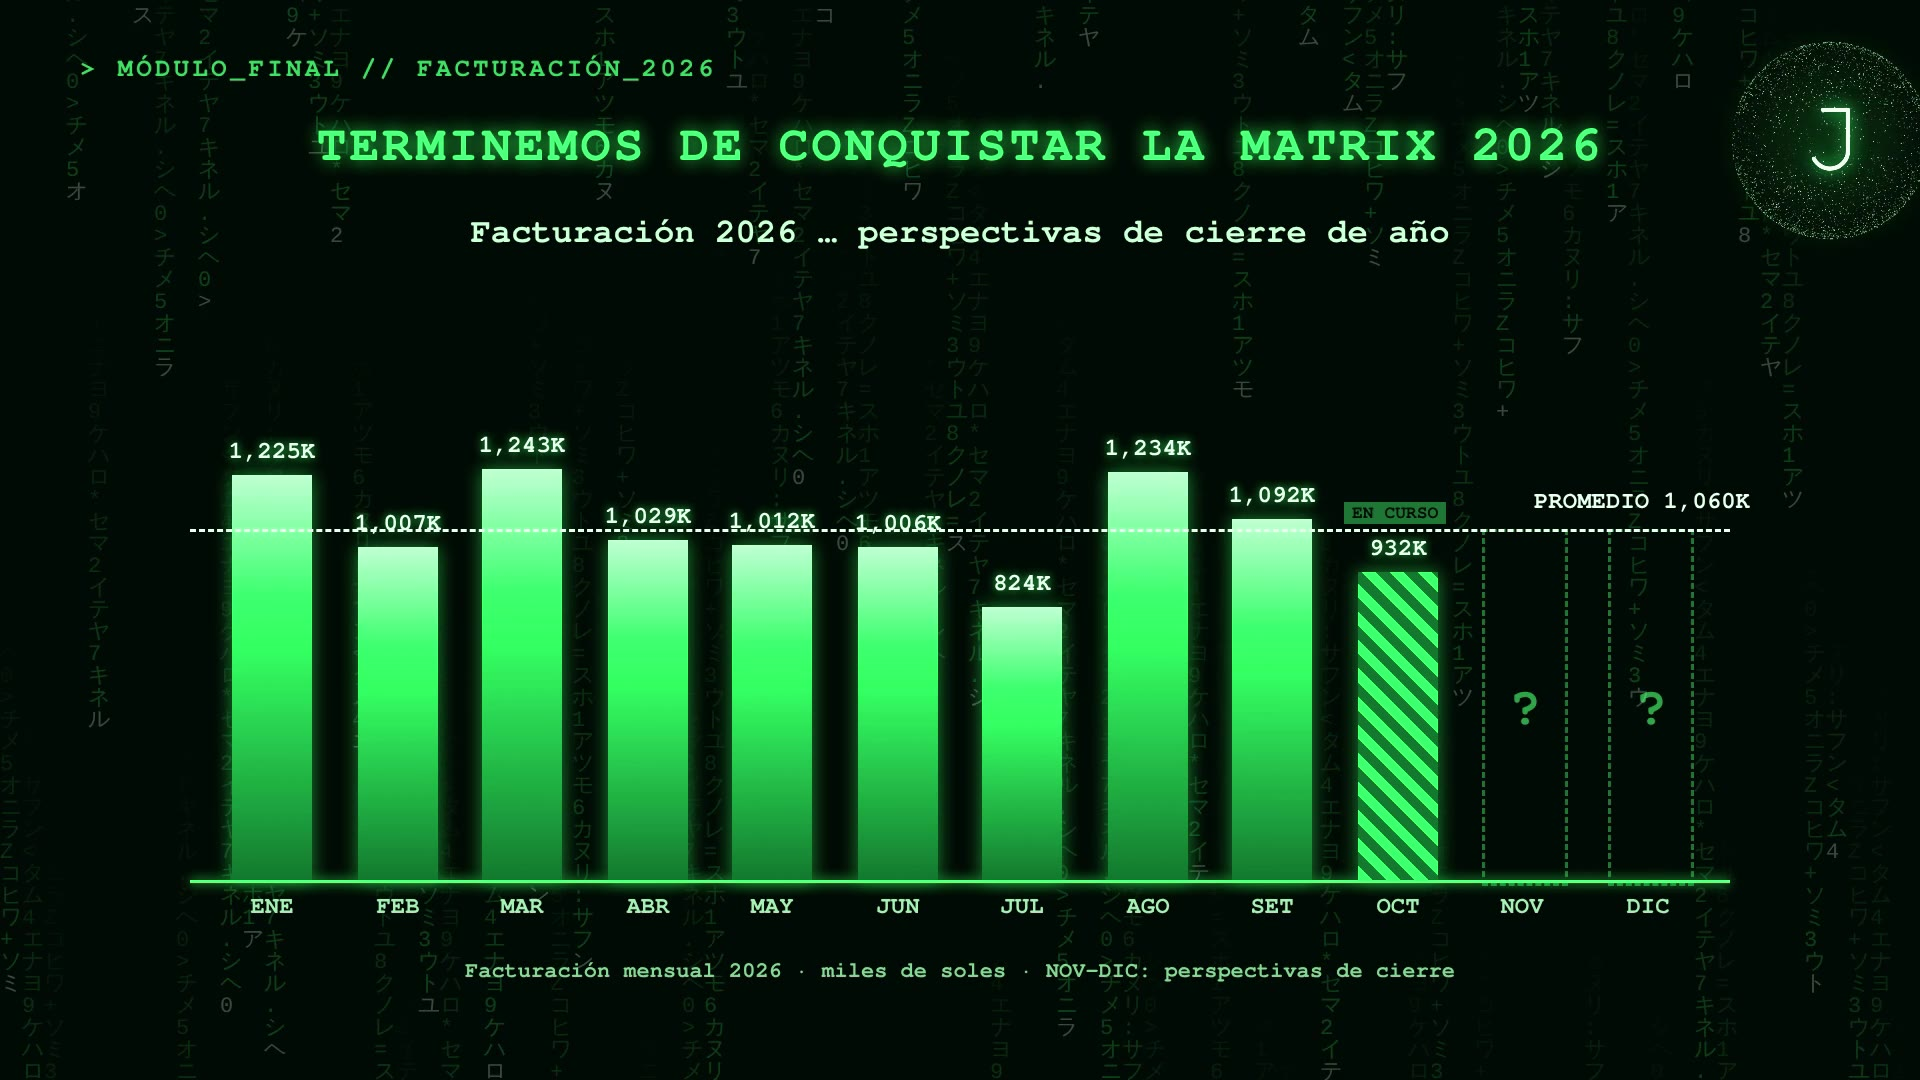
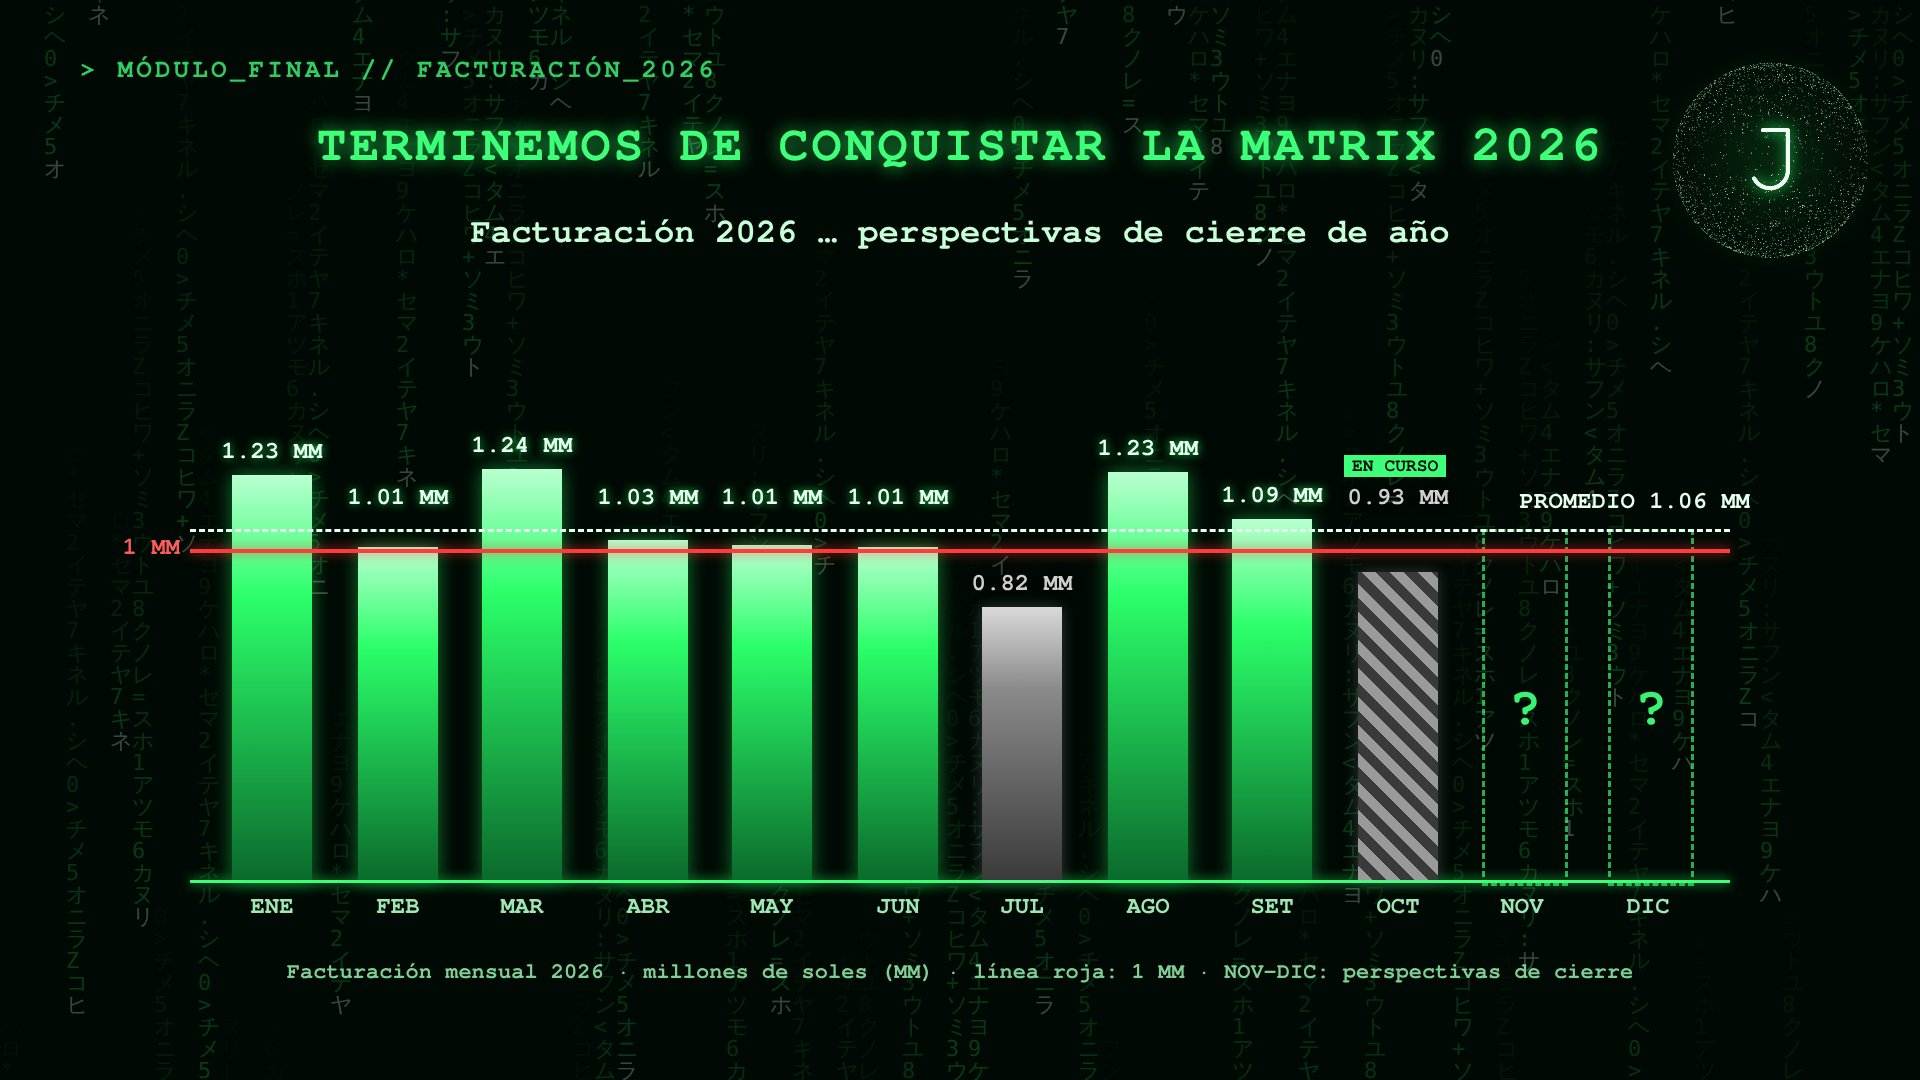
Matrix cierre: línea roja del millón, meses bajo 1 MM en gris, cifras en MM, promedio 1.06 MM y despedida "Cambio y fuera"
Claude-Session: https://claude.ai/code/session_01TNESLuQNUwZZ73yDMFRmWn

diff --git a/videos/matrix-2026/compositions/m6-final.html b/videos/matrix-2026/compositions/m6-final.html
@@ -30,6 +30,13 @@
   #eje{left:190px;width:1540px;top:880px;height:3px;background:#3dff7a;box-shadow:0 0 12px #2bff6a}
   .bar{background:linear-gradient(#b9ffd0,#2bff6a 30%,#0b6a2c);box-shadow:0 0 18px rgba(43,255,106,.45)}
   .bar[data-curso]{background:repeating-linear-gradient(45deg,#2bff6a 0 10px,#0b6a2c 10px 20px)}
+  /* meses que no llegan al millón: en gris */
+  .bar.gris{background:linear-gradient(#d9d9d9,#8a8a8a 30%,#3a3a3a);box-shadow:0 0 14px rgba(200,200,200,.25)}
+  .bar.gris[data-curso]{background:repeating-linear-gradient(45deg,#9a9a9a 0 10px,#3a3a3a 10px 20px)}
+  .val.gris{color:#cfcfcf;text-shadow:0 0 8px rgba(0,0,0,.9)}
+  #linmm{left:190px;width:1540px;height:0;border-top:4px solid #ff3b3b;box-shadow:0 0 12px rgba(255,59,59,.8);opacity:0}
+  #linmmt{left:60px;width:120px;text-align:right;font-family:"Maquina",monospace;font-size:24px;color:#ff5b5b;opacity:0}
+  #adios{inset:0;display:flex;align-items:center;justify-content:center;text-align:center;padding:0 160px;background:rgba(2,10,4,.88);font-family:"Maquina",monospace;font-size:64px;line-height:1.4;color:#e6ffee;text-shadow:0 0 18px rgba(43,255,106,.9),0 0 4px #000;opacity:0}
   .val{text-align:center;font-family:"Maquina",monospace;font-size:24px;color:#e6ffee;text-shadow:0 0 10px rgba(43,255,106,.8)}
   .mes{text-align:center;font-family:"Maquina",monospace;font-size:24px;color:#9fe8b4}
   .proy{border:3px dashed rgba(61,255,122,.7);display:flex;align-items:center;justify-content:center;font-family:"Maquina",monospace;font-size:54px;color:#3dff7a;opacity:0}
@@ -47,11 +54,14 @@
   <div id="h" class="abs"></div>
   <div id="sub2" class="abs"></div>
   <div id="eje" class="abs"></div>
-<div class="bar abs" data-v="1225" data-t="2.0" style="left:232px;width:80px;top:880px;height:0"></div><div class="val abs" data-v="1225" data-t="2.0" style="left:212px;width:120px"></div><div class="mes abs" style="left:212px;width:120px;top:894px">ENE</div><div class="bar abs" data-v="1007" data-t="2.18" style="left:358px;width:80px;top:880px;height:0"></div><div class="val abs" data-v="1007" data-t="2.18" style="left:338px;width:120px"></div><div class="mes abs" style="left:338px;width:120px;top:894px">FEB</div><div class="bar abs" data-v="1243" data-t="2.36" style="left:482px;width:80px;top:880px;height:0"></div><div class="val abs" data-v="1243" data-t="2.36" style="left:462px;width:120px"></div><div class="mes abs" style="left:462px;width:120px;top:894px">MAR</div><div class="bar abs" data-v="1029" data-t="2.54" style="left:608px;width:80px;top:880px;height:0"></div><div class="val abs" data-v="1029" data-t="2.54" style="left:588px;width:120px"></div><div class="mes abs" style="left:588px;width:120px;top:894px">ABR</div><div class="bar abs" data-v="1012" data-t="2.7199999999999998" style="left:732px;width:80px;top:880px;height:0"></div><div class="val abs" data-v="1012" data-t="2.7199999999999998" style="left:712px;width:120px"></div><div class="mes abs" style="left:712px;width:120px;top:894px">MAY</div><div class="bar abs" data-v="1006" data-t="2.9" style="left:858px;width:80px;top:880px;height:0"></div><div class="val abs" data-v="1006" data-t="2.9" style="left:838px;width:120px"></div><div class="mes abs" style="left:838px;width:120px;top:894px">JUN</div><div class="bar abs" data-v="824" data-t="3.08" style="left:982px;width:80px;top:880px;height:0"></div><div class="val abs" data-v="824" data-t="3.08" style="left:962px;width:120px"></div><div class="mes abs" style="left:962px;width:120px;top:894px">JUL</div><div class="bar abs" data-v="1234" data-t="3.26" style="left:1108px;width:80px;top:880px;height:0"></div><div class="val abs" data-v="1234" data-t="3.26" style="left:1088px;width:120px"></div><div class="mes abs" style="left:1088px;width:120px;top:894px">AGO</div><div class="bar abs" data-v="1092" data-t="3.44" style="left:1232px;width:80px;top:880px;height:0"></div><div class="val abs" data-v="1092" data-t="3.44" style="left:1212px;width:120px"></div><div class="mes abs" style="left:1212px;width:120px;top:894px">SET</div><div class="bar abs" data-v="932" data-t="3.62" style="left:1358px;width:80px;top:880px;height:0" data-curso=1></div><div class="val abs" data-v="932" data-t="3.62" style="left:1338px;width:120px"></div><div class="mes abs" style="left:1338px;width:120px;top:894px">OCT</div><div class="proy abs" data-t="4.4" style="left:1482px;width:80px;top:529px;height:351px">?</div><div class="mes abs" style="left:1462px;width:120px;top:894px">NOV</div><div class="proy abs" data-t="4.65" style="left:1608px;width:80px;top:529px;height:351px">?</div><div class="mes abs" style="left:1588px;width:120px;top:894px">DIC</div>
+<div class="bar abs" data-v="1225" data-t="2.0" style="left:232px;width:80px;top:880px;height:0"></div><div class="val abs" data-v="1225" data-t="2.0" style="left:212px;width:120px"></div><div class="mes abs" style="left:212px;width:120px;top:894px">ENE</div><div class="bar abs" data-v="1007" data-t="2.18" style="left:358px;width:80px;top:880px;height:0"></div><div class="val abs" data-v="1007" data-t="2.18" style="left:338px;width:120px"></div><div class="mes abs" style="left:338px;width:120px;top:894px">FEB</div><div class="bar abs" data-v="1243" data-t="2.36" style="left:482px;width:80px;top:880px;height:0"></div><div class="val abs" data-v="1243" data-t="2.36" style="left:462px;width:120px"></div><div class="mes abs" style="left:462px;width:120px;top:894px">MAR</div><div class="bar abs" data-v="1029" data-t="2.54" style="left:608px;width:80px;top:880px;height:0"></div><div class="val abs" data-v="1029" data-t="2.54" style="left:588px;width:120px"></div><div class="mes abs" style="left:588px;width:120px;top:894px">ABR</div><div class="bar abs" data-v="1012" data-t="2.7199999999999998" style="left:732px;width:80px;top:880px;height:0"></div><div class="val abs" data-v="1012" data-t="2.7199999999999998" style="left:712px;width:120px"></div><div class="mes abs" style="left:712px;width:120px;top:894px">MAY</div><div class="bar abs" data-v="1006" data-t="2.9" style="left:858px;width:80px;top:880px;height:0"></div><div class="val abs" data-v="1006" data-t="2.9" style="left:838px;width:120px"></div><div class="mes abs" style="left:838px;width:120px;top:894px">JUN</div><div class="bar abs gris" data-v="824" data-t="3.08" style="left:982px;width:80px;top:880px;height:0"></div><div class="val abs gris" data-v="824" data-t="3.08" style="left:962px;width:120px"></div><div class="mes abs" style="left:962px;width:120px;top:894px">JUL</div><div class="bar abs" data-v="1234" data-t="3.26" style="left:1108px;width:80px;top:880px;height:0"></div><div class="val abs" data-v="1234" data-t="3.26" style="left:1088px;width:120px"></div><div class="mes abs" style="left:1088px;width:120px;top:894px">AGO</div><div class="bar abs" data-v="1092" data-t="3.44" style="left:1232px;width:80px;top:880px;height:0"></div><div class="val abs" data-v="1092" data-t="3.44" style="left:1212px;width:120px"></div><div class="mes abs" style="left:1212px;width:120px;top:894px">SET</div><div class="bar abs gris" data-v="932" data-t="3.62" style="left:1358px;width:80px;top:880px;height:0" data-curso=1></div><div class="val abs gris" data-v="932" data-t="3.62" style="left:1338px;width:120px"></div><div class="mes abs" style="left:1338px;width:120px;top:894px">OCT</div><div class="proy abs" data-t="4.4" style="left:1482px;width:80px;top:529px;height:351px">?</div><div class="mes abs" style="left:1462px;width:120px;top:894px">NOV</div><div class="proy abs" data-t="4.65" style="left:1608px;width:80px;top:529px;height:351px">?</div><div class="mes abs" style="left:1588px;width:120px;top:894px">DIC</div>
   <div id="prom" class="abs" style="top:529px"></div>
-  <div id="promt" class="abs" style="top:489px">PROMEDIO 1,060K</div>
+  <div id="promt" class="abs" style="top:489px">PROMEDIO 1.06 MM</div>
+  <div id="linmm" class="abs" style="top:549px"></div>
+  <div id="linmmt" class="abs" style="top:535px">1 MM</div>
   <div id="curso" class="abs">EN CURSO</div>
-  <div id="ley" class="abs">Facturación mensual 2026 · miles de soles · NOV–DIC: perspectivas de cierre</div>
+  <div id="ley" class="abs">Facturación mensual 2026 · millones de soles (MM) · línea roja: 1 MM · NOV–DIC: perspectivas de cierre</div>
+  <div id="adios" class="abs"></div>
   <div id="jw" class="abs"><div id="halo" class="abs"></div><canvas id="jaina" class="abs" width="600" height="600" style="left:0;top:0"></canvas></div>
 </div>
 <script>
@@ -136,10 +146,10 @@
     document.getElementById("halo").style.opacity = (.4 + .6 * br) * f;
   }
   // paso 1 (pedido de foto) arranca con un toque; en el render cae a los 23 s
-  const PASO = [0, 22.6];
-  function habla(t) { return [[1.0, 21.2], [PASO[1] + 0.4, PASO[1] + 8.0]].some(([a, b]) => t >= a && t <= b) ? Math.abs(Math.sin(t * 11) * Math.sin(t * 4.3 + 1)) : 0; }
+  const PASO = [0, 22.6, 31.0];
+  function habla(t) { return [[1.0, 21.2], [PASO[1] + 0.4, PASO[1] + 8.0], [PASO[2] + 0.6, PASO[2] + 6.0]].some(([a, b]) => t >= a && t <= b) ? Math.abs(Math.sin(t * 11) * Math.sin(t * 4.3 + 1)) : 0; }
   gsap.set("#jw", { scale: 0.42 });
-  const fmt = v => (v >= 1000 ? Math.floor(v / 1000) + "," + String(v % 1000).padStart(3, "0") : String(v)) + "K";
+  const fmt = v => (v / 1000).toFixed(2) + " MM";
   const barras = [...document.querySelectorAll(".bar")], vals = [...document.querySelectorAll(".val")], proy = [...document.querySelectorAll(".proy")];
   // barras que crecen y cifras que cuentan hasta el dato real
   function hud(t) {
@@ -147,15 +157,21 @@
       const p = Math.min(1, Math.max(0, (t - b.dataset.t) / 0.9)), e = 1 - Math.pow(1 - p, 3), h = b.dataset.v / 1300 * 430 * e;
       b.style.height = h + "px"; b.style.top = (880 - h) + "px";
       const v = vals[k]; v.textContent = p ? fmt(Math.round(b.dataset.v * e)) : ""; // la cifra nunca toca la línea del promedio (y=529): si chocaría, sube por encima de ella
-      let y = 880 - h - 36; if (y < 535 && y + 30 > 523) y = 529 - 44; v.style.top = y + "px";
-      if (b.dataset.curso !== undefined) { const c = document.getElementById("curso"); c.style.opacity = p >= 1 ? (Math.floor(t * 2) % 2 ? .4 : 1) : 0; c.style.left = (parseFloat(b.style.left) - 14) + "px"; c.style.top = Math.min(880 - h - 70, 529 - 36) + "px"; }
+      // la cifra nunca toca la línea del promedio (529) ni la roja del millón (549)
+      let y = 880 - h - 36; if (y < 557 && y + 30 > 521) y = 529 - 44; v.style.top = y + "px";
+      if (b.dataset.curso !== undefined) { const c = document.getElementById("curso"); c.style.opacity = p >= 1 ? (Math.floor(t * 2) % 2 ? .4 : 1) : 0; c.style.left = (parseFloat(b.style.left) - 14) + "px"; c.style.top = (y - 30) + "px"; }
     });
     proy.forEach(e => e.style.opacity = t >= +e.dataset.t ? .5 + .5 * Math.abs(Math.sin(t * 2)) : 0);
     const pr = t >= 4.2 ? 1 : 0;
     document.getElementById("prom").style.opacity = pr; document.getElementById("promt").style.opacity = pr;
+    const rj = t >= 4.6 ? 1 : 0; document.getElementById("linmm").style.opacity = rj; document.getElementById("linmmt").style.opacity = rj;
+    // tercer toque: despedida a pantalla completa, escrita a máquina
+    const ad = document.getElementById("adios"), TA = "Adiós iPartner. Neo Mario se retira… Cambio y fuera.", e = t - PASO[2];
+    ad.style.opacity = e > 0 ? Math.min(1, e / 0.6) : 0;
+    ad.textContent = e > 0.4 ? TA.slice(0, Math.min(TA.length, Math.floor((e - 0.4) * 16))) + (Math.floor(t * 2.5) % 2 ? "▌" : "\u00a0") : "";
     jaina(t);
   }
-  const DUR = 32;
+  const DUR = 38;
   const tl = gsap.timeline({ paused: true });
   tl.fromTo(st, { t: 0 }, { t: DUR, duration: DUR, ease: "none", onUpdate: pintar }, 0);
   // cada imagen se "descarga": aparece el marco y una línea de escaneo la revela de arriba hacia abajo
@@ -174,8 +190,9 @@
   let enVivo = false;
   addEventListener("message", e => {
     const t = e.data && e.data.t; if (typeof t !== "number") return;
-    if (!enVivo) { enVivo = true; PASO[1] = Infinity; }
+    if (!enVivo) { enVivo = true; PASO[1] = Infinity; PASO[2] = Infinity; }
     if (e.data.paso >= 1 && PASO[1] === Infinity) { PASO[1] = t; }
+    if (e.data.paso >= 2 && PASO[2] === Infinity) { PASO[2] = t; }
     // seek no dispara onUpdate (suppressEvents), así que se repinta a mano
     if (t < DUR) tl.seek(t); else st.t = t;
     pintar();

diff --git a/videos/matrix-2026/presentacion.html b/videos/matrix-2026/presentacion.html
@@ -29,7 +29,7 @@
   // GitHub Pages guarda los archivos 10 min en caché: con esto siempre se carga la última versión
   const VER = "?v=" + Date.now();
   // pasos: cuántos toques "sin transición" tiene la slide antes de pasar a la siguiente
-  const PASOS = { "compositions/m0-apertura.html": 2, "compositions/m6-final.html": 2 };
+  const PASOS = { "compositions/m0-apertura.html": 2, "compositions/m6-final.html": 3 };
   let paso = 0;
   // música de fondo: suave bajo la voz en la intro, fuerte en el show de las balas, se apaga después
   const musica = Object.assign(new Audio("assets/musica-balas-show.mp3"), { loop: true, volume: 0 });
@@ -53,7 +53,7 @@
     7: [["07-pregunta-reports", 0.6, 0]],
     9: [["08-pregunta-finance", 0.6, 0]],
     11: [["09-pregunta-onboarding", 0.6, 0]],
-    13: [["04-cierre", 1.0, 0], ["05-foto", 0.4, 1]],
+    13: [["04-cierre", 1.0, 0], ["05-foto", 0.4, 1], ["10-adios", 0.6, 2]],
   };
   const audios = {};
   Object.values(VOCES).flat().forEach(([n]) => { audios[n] = new Audio(`assets/voz/${n}.mp3${VER}`); audios[n].preload = "auto"; });
